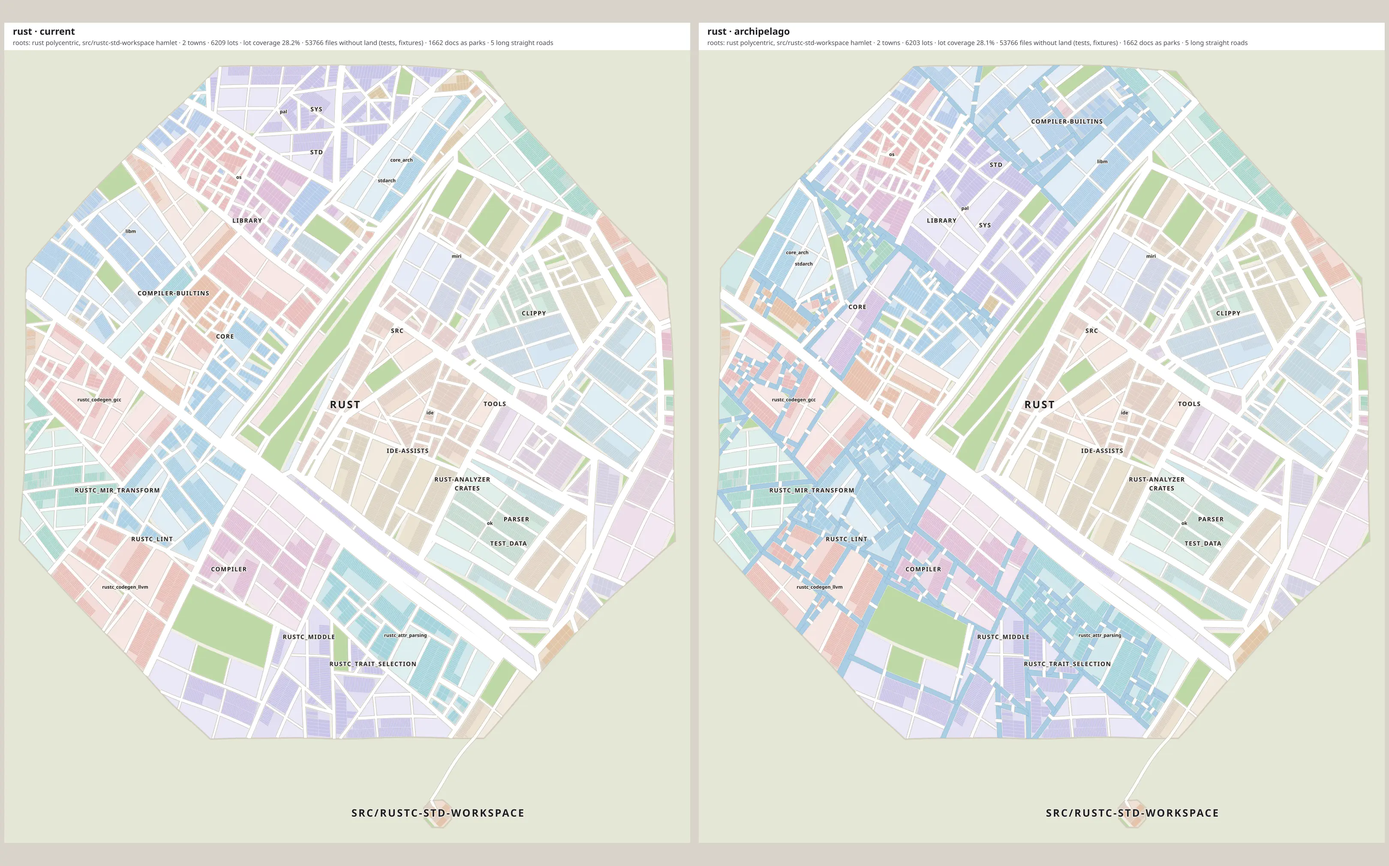
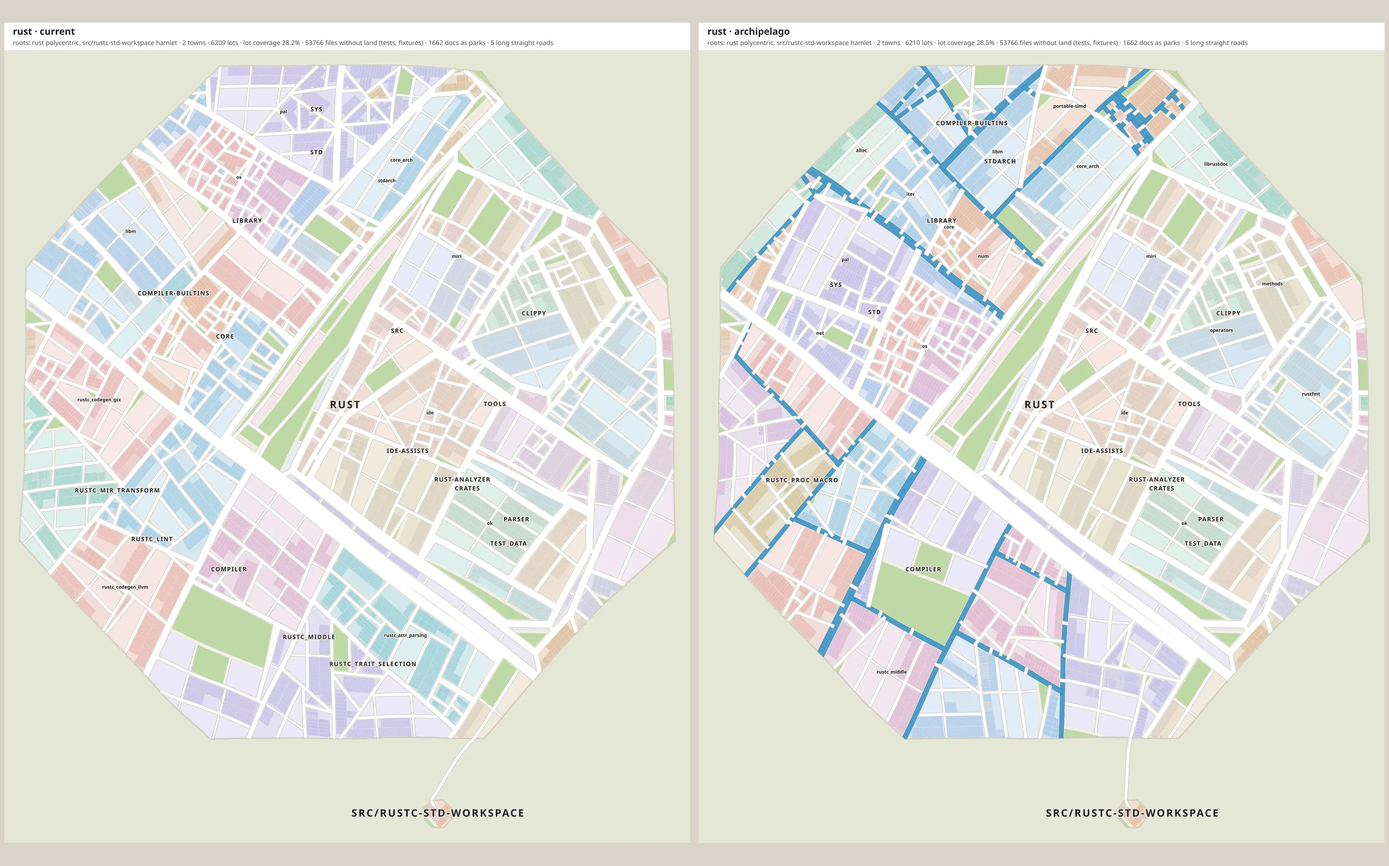
Refine archipelago: a dozen islands, deep canals
Packages beyond a dozen share islands (remembered in the plat), roads between them; canals get their own deeper colour.

Changed region(s): [[0.4988, 0.0624, 0.8728, 0.9045]]

diff --git a/docs/research/city-layout/variants/town.ts b/docs/research/city-layout/variants/town.ts
@@ -127,6 +127,8 @@ export interface TownPlat {
   radial: Record<string, RadialRecord>;
   /** Quarters (opt-in): the members of each quarter of a folder, in age order. */
   quarters?: Record<string, string[][]>;
+  /** Archipelago (opt-in): the packages on each island of a folder, in age order, once it has more than a dozen. */
+  islands?: Record<string, string[][]>;
   /** Tiers (opt-in): the town's settlement tier, held with hysteresis. */
   tier?: Tier;
 }
@@ -199,6 +201,8 @@ export interface Town {
   /** An old town: a city kept whole when its root switched form; its lots light while their files live. */
   old: boolean;
   water: Pt[][];
+  /** Archipelago (opt-in): canals, drawn deeper than a river so no district tint matches them. */
+  canals?: Pt[][];
   outline: Pt[];
   roads: Road[];
   blocks: Block[];
@@ -373,6 +377,8 @@ function flatten(node: Node): { lots: FileRecord[]; docs: number } {
 }
 
 const FLATTEN_LIMIT = FLATTEN_BLOCKS * (BLOCK_SHORT + U) * (BLOCK_LONG + U);
+/** An archipelago (opt-in) of more packages than this shares islands among them, so canals stay few. */
+const ISLAND_CAP = 12;
 /** A quarter (opt-in) closes once its members need this many blocks of land: about five blocks across. */
 const QUARTER_BLOCKS = 24;
 const QUARTER_LAND = QUARTER_BLOCKS * (BLOCK_SHORT + U) * (BLOCK_LONG + U);
@@ -477,6 +483,7 @@ export function layoutTown(
     for (const key of Object.keys(plat.grids)) if (owned(key, path)) delete plat.grids[key];
     for (const key of Object.keys(plat.radial)) if (owned(key, path)) delete plat.radial[key];
     for (const key of Object.keys(plat.quarters ?? {})) if (owned(key, path)) delete plat.quarters![key];
+    for (const key of Object.keys(plat.islands ?? {})) if (owned(key, path)) delete plat.islands![key];
   };
 
   const place = (poly: Poly, item: Item, district: string) => {
@@ -728,9 +735,9 @@ export function layoutTown(
   };
 
   /** A band of water along a cut, its banks pavement; one bridge, or two at a third and two thirds of a long one. */
-  const waterway = (poly: Poly, r: CutRecord, seg: [Pt, Pt], width: number) => {
+  const waterway = (poly: Poly, r: CutRecord, seg: [Pt, Pt], width: number, canal = false) => {
     const water = clip(clip(poly, r.nx, r.ny, r.c + width / 2, 0), -r.nx, -r.ny, -(r.c - width / 2), 0);
-    if (water.p.length >= 3) town.water.push(water.p);
+    if (water.p.length >= 3) (canal ? (town.canals ??= []) : town.water).push(water.p);
     const length = Math.hypot(seg[1].x - seg[0].x, seg[1].y - seg[0].y);
     for (const f of length > 12 * U ? [1 / 3, 2 / 3] : [1 / 2]) {
       const m = { x: seg[0].x + (seg[1].x - seg[0].x) * f, y: seg[0].y + (seg[1].y - seg[0].y) * f };
@@ -763,7 +770,7 @@ export function layoutTown(
     const major = r.cls !== "street" && r.cls !== "lane";
     const width = canals ? (top ? RIVER : CANAL) : ROAD_WIDTH[r.cls];
     if (seg && left.length > 0 && right.length > 0) {
-      if (canals) waterway(poly, r, seg, width);
+      if (canals) waterway(poly, r, seg, width, true);
       else town.roads.push({ pts: seg, cls: r.cls });
     }
     if (major) wards(poly, r, left, right, key);
@@ -1134,9 +1141,10 @@ export function layoutTown(
    * a canal with one bridge, or two on a canal longer than 12 u. The mainland is cut by streets as usual.
    */
   function archipelago(node: Node, items: Item[], poly: Poly, district: string): boolean {
-    const islands = items.filter((i) => i.kind === "folder" && isIsland(i.node));
-    if (islands.length < 2) return false;
-    const rest = items.filter((i) => !islands.includes(i));
+    const packages = items.filter((i) => i.kind === "folder" && isIsland(i.node));
+    if (packages.length < 2) return false;
+    const islands = packages.length > ISLAND_CAP ? islandGroups(node, packages) : packages;
+    const rest = items.filter((i) => !packages.includes(i));
     const mainland: Item[] =
       rest.length <= 1
         ? rest
@@ -1161,6 +1169,57 @@ export function layoutTown(
       true,
     );
     return true;
+  }
+
+  /**
+   * More packages than a dozen share islands: packages join islands in age order, an island closing at a dozenth of
+   * the packages' mass, so there are about a dozen canals however many packages there are. Roads, not canals, run
+   * between the packages of one island. Membership is remembered; a newcomer joins the last island while it is under a
+   * dozenth, else founds the next.
+   */
+  function islandGroups(node: Node, packages: Item[]): Item[] {
+    const byKey = new Map(packages.map((i) => [i.key, i]));
+    const share = massOf(packages) / ISLAND_CAP;
+    const weight = (keys: string[]) => keys.reduce((sum, k) => sum + (byKey.get(k)?.mass ?? 0), 0);
+    const records = (plat.islands ??= {});
+    let groups = records[node.path];
+    if (!groups) {
+      groups = [];
+      let current: string[] = [];
+      for (const item of packages) {
+        current.push(item.key);
+        if (weight(current) >= share) {
+          groups.push(current);
+          current = [];
+        }
+      }
+      if (current.length > 0) groups.push(current);
+    } else {
+      groups = groups.map((g) => g.filter((k) => byKey.has(k)));
+      const known = new Set(groups.flat());
+      for (const item of packages) {
+        if (known.has(item.key)) continue;
+        const last = groups[groups.length - 1];
+        if (last && weight(last) < share) last.push(item.key);
+        else groups.push([item.key]);
+      }
+    }
+    records[node.path] = groups;
+    return groups.flatMap((keys, g) => {
+      const members = keys.map((k) => byKey.get(k)!);
+      if (members.length === 0) return [];
+      if (members.length === 1) return members;
+      return [
+        {
+          kind: "group" as const,
+          items: members,
+          gross: demandOf(members),
+          mass: massOf(members),
+          firstSeen: Math.min(...members.map((m) => m.firstSeen)),
+          key: `${node.path}#island${g}`,
+        },
+      ];
+    });
   }
 
   /**
@@ -1544,6 +1603,7 @@ export function layoutTown(
     town.lots = town.lots.map((l) => ({ ...l, pts: l.pts.map(warp) }));
     town.districts = town.districts.map((d) => ({ ...d, pts: bend(d.pts, true, 10) }));
     town.water = town.water.map((w) => bend(w, true, 8));
+    if (town.canals) town.canals = town.canals.map((w) => bend(w, true, 8));
   }
   return town;
 }

diff --git a/docs/research/city-layout/variants/render-town.ts b/docs/research/city-layout/variants/render-town.ts
@@ -17,6 +17,8 @@ interface Theme {
   plaza: string;
   water: string;
   waterline: string;
+  canal: string;
+  canalline: string;
   /** Fills by district form, for the archetype sheets. */
   form: (form: string, lot: boolean) => string;
   casing: string;
@@ -74,6 +76,8 @@ const THEMES: Record<ThemeName, Theme> = {
     plaza: "#E9DFCB",
     water: "#A9CCE3",
     waterline: "#7FAFD0",
+    canal: oklch(0.66, 0.1, 235),
+    canalline: oklch(0.52, 0.1, 235),
     form: (f, lot) => oklch(lot ? 0.82 : 0.92, lot ? 0.08 : 0.03, FORM_HUE[f] ?? 0),
     casing: "#C3BBAC",
     road: "#FFFFFF",
@@ -94,6 +98,8 @@ const THEMES: Record<ThemeName, Theme> = {
     plaza: mix(DRACULA.background, DRACULA.foreground, 0.16),
     water: mix(DRACULA.background, "#8BE9FD", 0.3),
     waterline: mix(DRACULA.background, "#8BE9FD", 0.6),
+    canal: mix(DRACULA.background, "#8BE9FD", 0.5),
+    canalline: mix(DRACULA.background, "#8BE9FD", 0.8),
     form: (f, lot) => mix(DRACULA.background, FORM_ACCENT[f] ?? DRACULA.comment, lot ? 0.5 : 0.12),
     casing: "#191A21",
     road: DRACULA.line,
@@ -186,6 +192,10 @@ export function renderRegion(
     for (const w of town.water)
       out.push(
         `<path d="${poly(w)}" fill="${theme.water}" stroke="${theme.waterline}" stroke-width="${Math.max(0.6, 0.6 * scale).toFixed(2)}"/>`,
+      );
+    for (const w of town.canals ?? [])
+      out.push(
+        `<path d="${poly(w)}" fill="${theme.canal}" stroke="${theme.canalline}" stroke-width="${Math.max(0.6, 0.6 * scale).toFixed(2)}"/>`,
       );
     // Roads: all casings, then all fills, smallest class first, so junctions merge.
     const roads = [...town.roads].sort((a, b) => ORDER.indexOf(a.cls) - ORDER.indexOf(b.cls));
